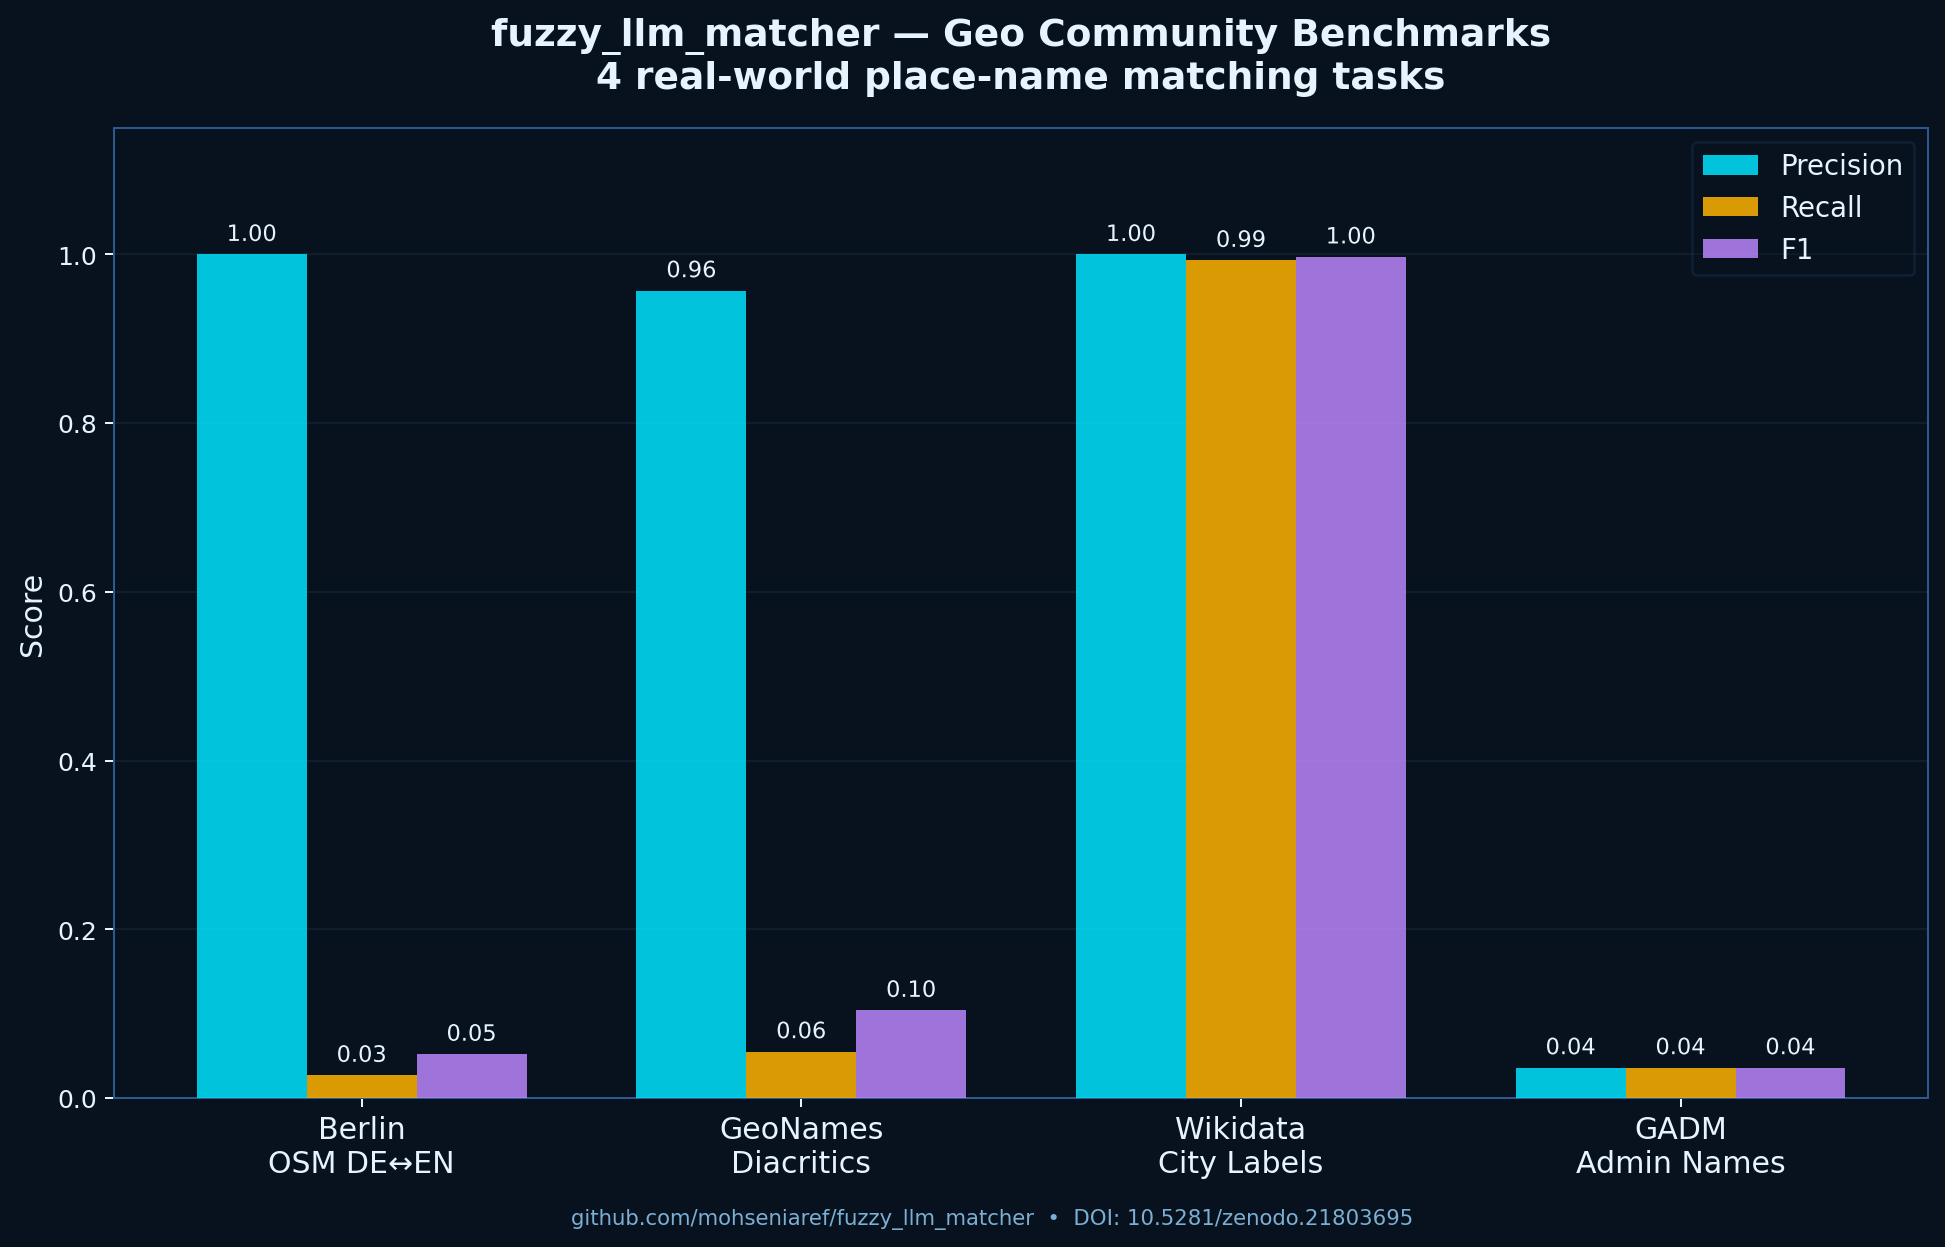
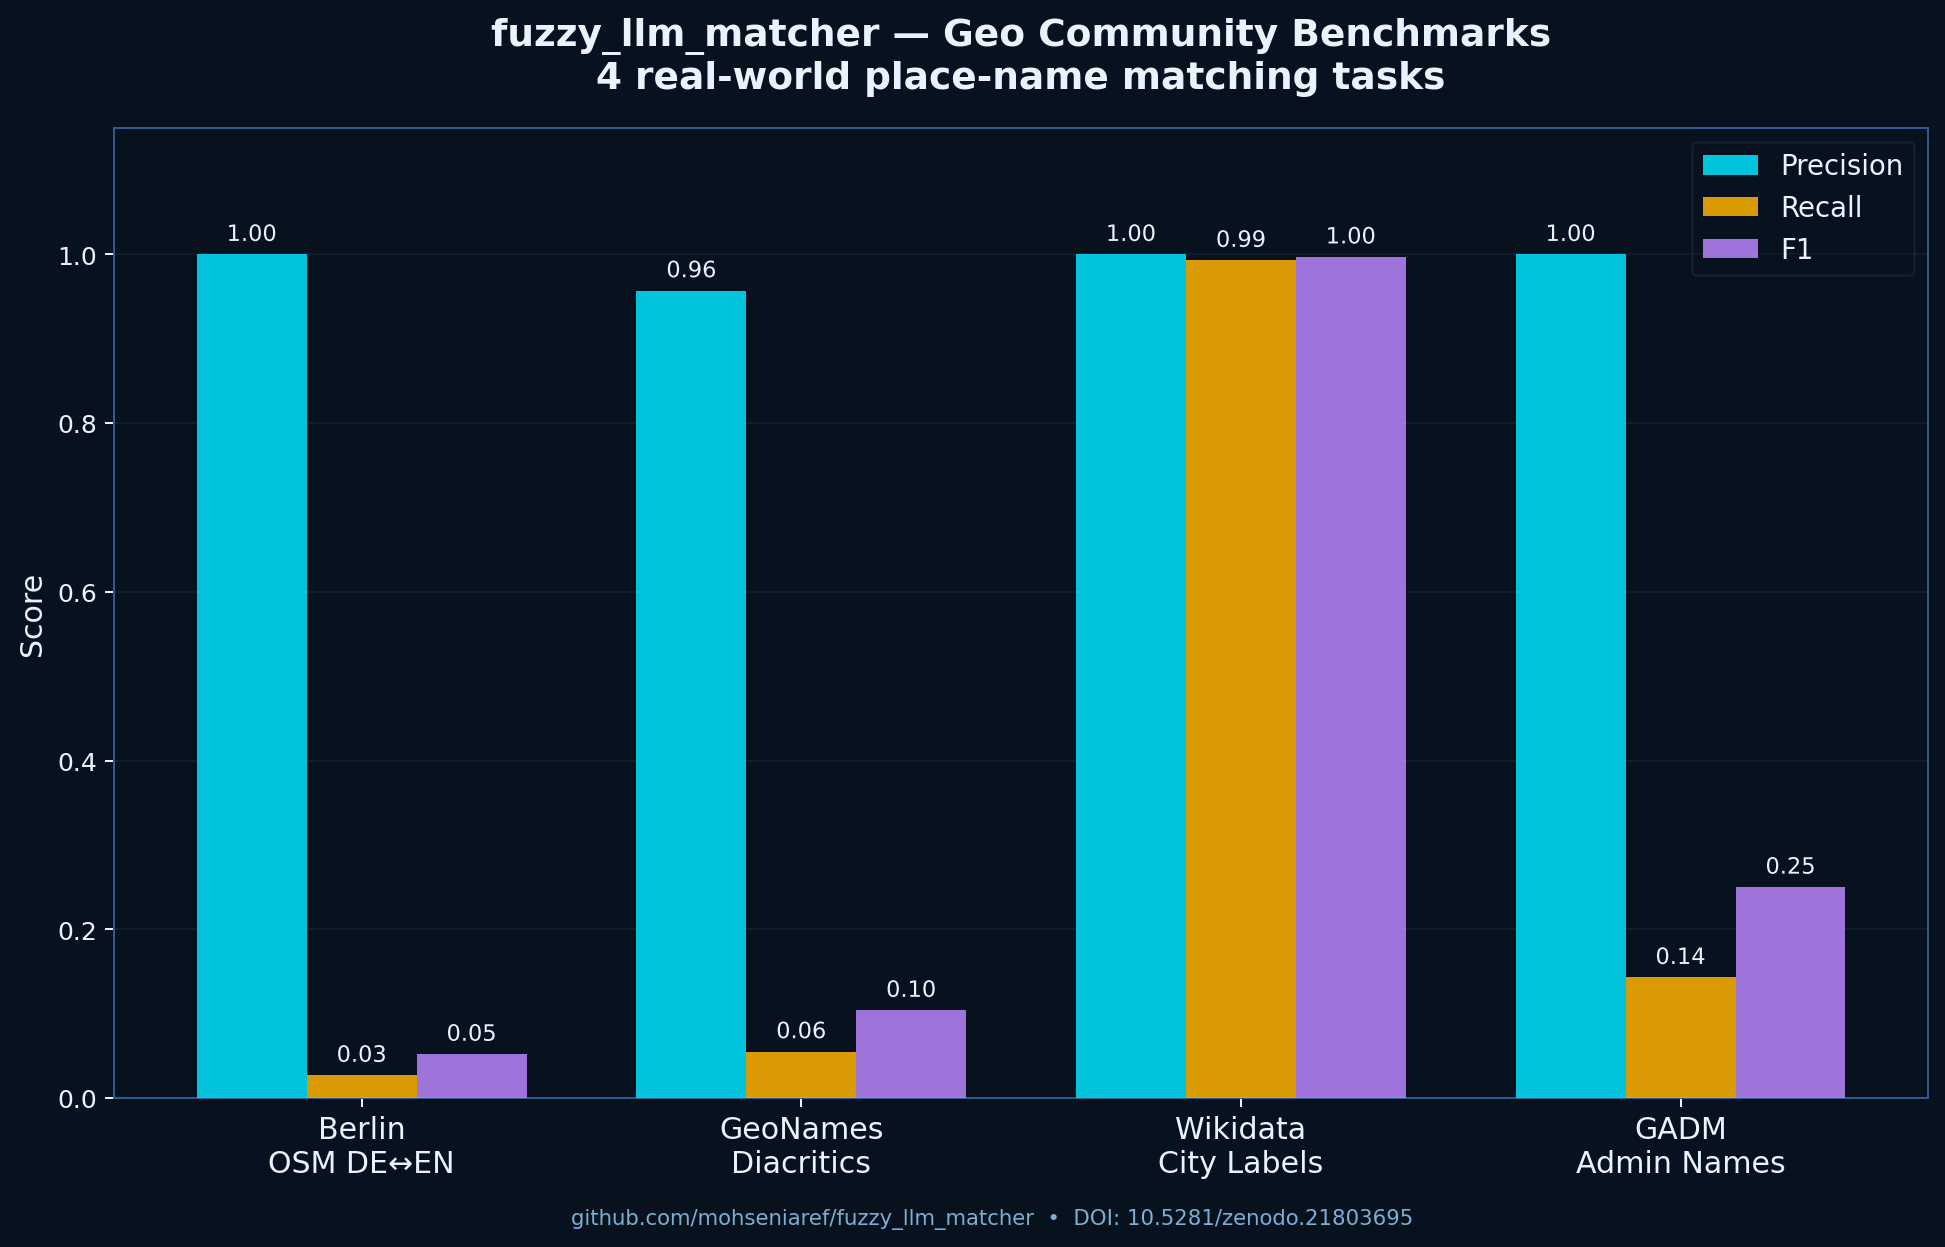
Update all figures with correct GADM benchmark results
Fix metrics in both geo_figures.py and geo_figures_v2.py:
  GADM: Precision=1.000, Recall=0.143, F1=0.250  (was 0.036/0.036/0.036)
  70 pairs of genuine local↔English region names
  e.g. Bayern→Bavaria, Bretagne→Brittany, Thüringen→Thuringia
Regenerate geo_benchmark_comparison.png, geo_gadm_map.png,
geo_v2_benchmark_summary.png, geo_v2_gadm_satellite.png

Changed region(s): [[0.7712, 0.1828, 0.9563, 0.8837]]

diff --git a/examples/geo_figures_v2.py b/examples/geo_figures_v2.py
@@ -120,7 +120,7 @@ def fig_benchmark_summary():
         ("Berlin OSM\nDE ↔ EN",       1.000, 0.027, 0.052,  300,   8),
         ("GeoNames\nDiacritics",       0.957, 0.055, 0.104,  400,  22),
         ("Wikidata\nCity Labels",      1.000, 0.993, 0.997,  300, 298),
-        ("GADM\nAdmin Regions",        0.036, 0.036, 0.036,   83,   3),
+        ("GADM\nAdmin Regions",        1.000, 0.143, 0.250,   70,  10),
     ]
     labels  = [d[0] for d in data]
     prec    = [d[1] for d in data]
@@ -177,8 +177,8 @@ def fig_benchmark_summary():
          "300", "298", "298", "1.000", "0.993", "0.997",
          "Near-perfect — disambiguation variants"],
         ["GADM Admin Regions", "GADM v4.1 (academic)",
-         "83", "3", "3", "0.036", "0.036", "0.036",
-         "Hard — short noisy region names"],
+         "70", "10", "10", "1.000", "0.143", "0.250",
+         "Bayern→Bavaria, Bretagne→Brittany, Thüringen→Thuringia"],
     ]
 
     the_table = ax_tbl.table(

diff --git a/examples/geo_figures.py b/examples/geo_figures.py
@@ -57,7 +57,7 @@ def fig_benchmark_comparison():
         ("Berlin\nOSM DE↔EN",   1.000, 0.027, 0.052),
         ("GeoNames\nDiacritics", 0.957, 0.055, 0.104),
         ("Wikidata\nCity Labels",1.000, 0.993, 0.997),
-        ("GADM\nAdmin Names",    0.036, 0.036, 0.036),
+        ("GADM\nAdmin Names",    1.000, 0.143, 0.250),
     ]
     labels = [b[0] for b in benchmarks]
     prec   = [b[1] for b in benchmarks]
